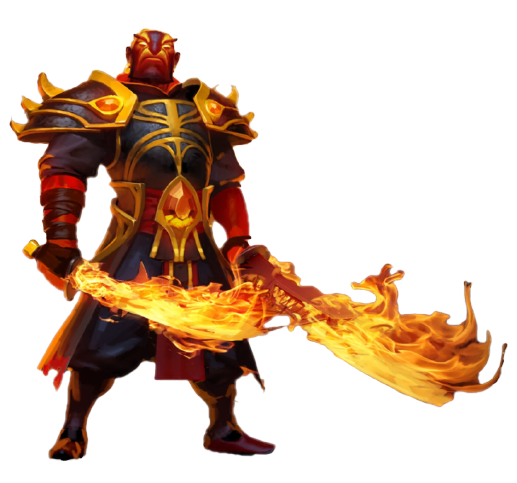
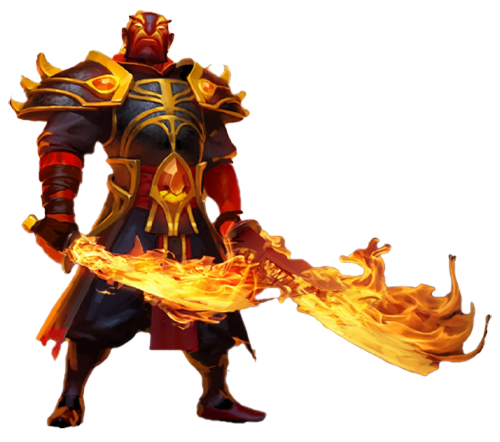
Commit due to computer problems

diff --git a/style.css b/style.css
@@ -1,0 +1,29 @@
+* {
+    box-sizing: border-box;
+    margin: 0;
+    padding: 0;
+}
+
+html,
+body {
+    font-family: sans-serif;
+    height: 100%;
+    width: 100%;
+    overflow: hidden;
+    background-color: #222;
+    color: #ddd;
+    line-height: 1.7;
+}
+
+img {
+    height: 500px;
+}
+
+.slider-container {
+    height: 100vh;
+    display: inline-flex;
+    overflow: hidden;
+    transform: translateX(0);
+    transition: transform 300ms ease-out;
+    cursor: grab;
+}
